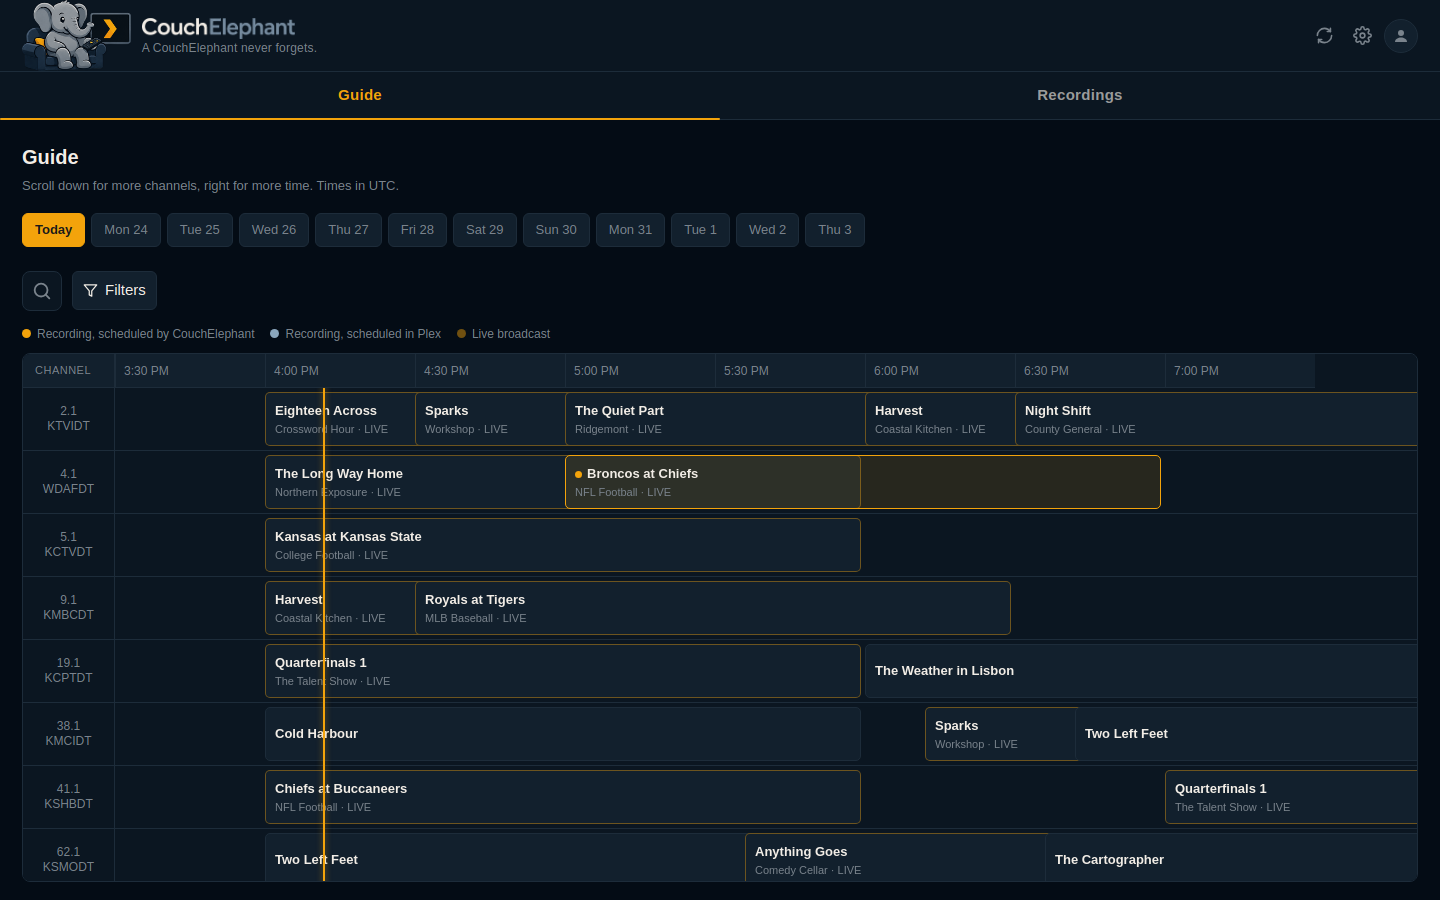
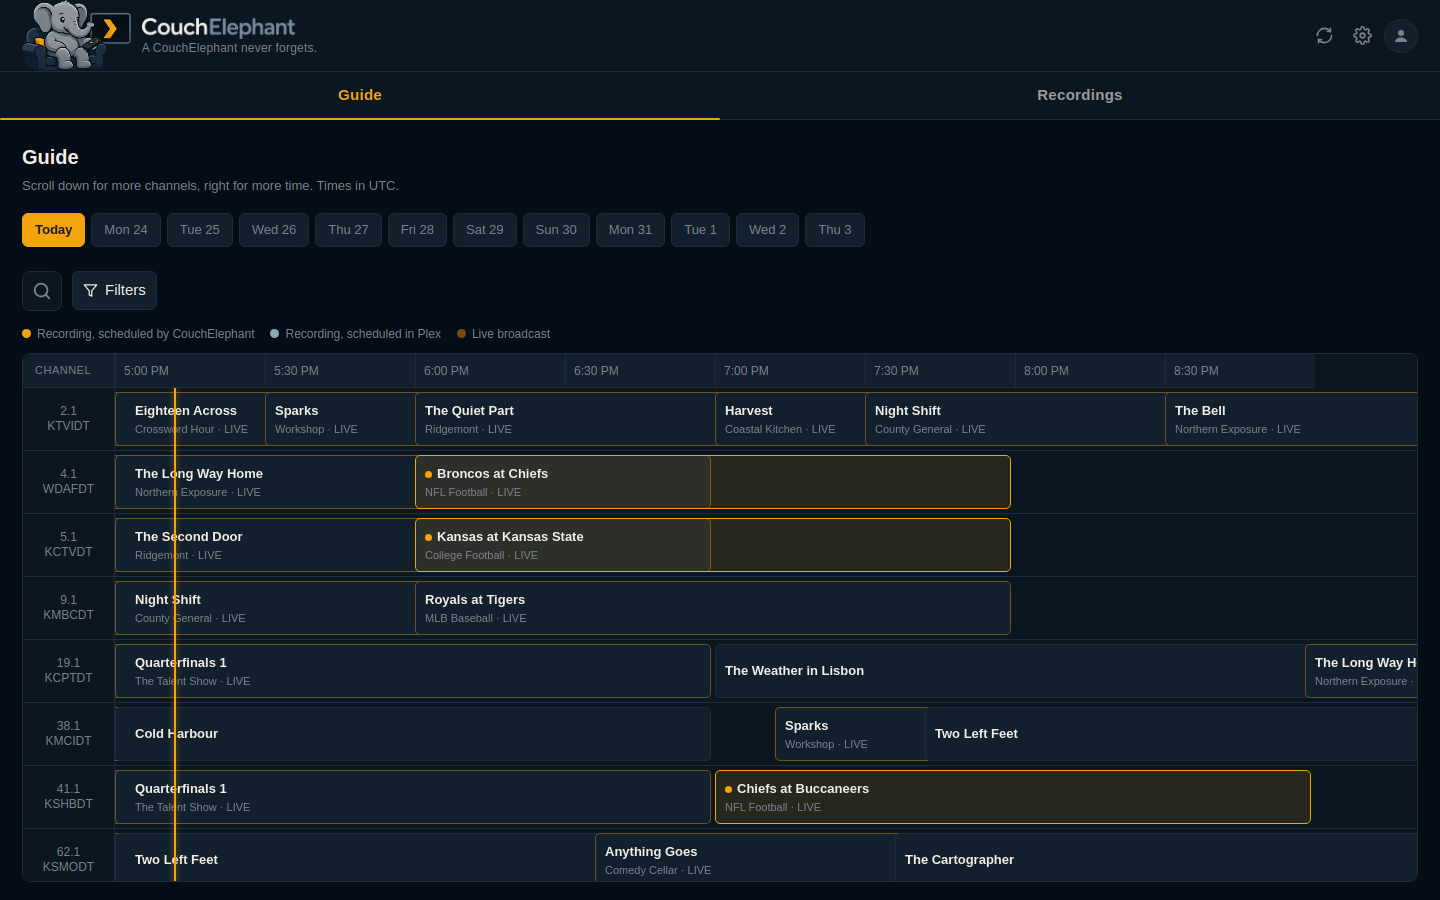
Screenshots: live game booked, full first column, no tab sparkle; UTC in the zone list; export label names every secret
Claude-Session: https://claude.ai/code/session_01XM6MJb5PzRb7XSwa3SEwsD

diff --git a/app/templates/_settings.html b/app/templates/_settings.html
@@ -273,8 +273,9 @@
           <p class="dim">The guide is not in it. Programmes and airings rebuild from
             your Plex server in seconds, so a stale copy would be bigger and wrong.</p>
           <label class="chk"><input type="checkbox" id="expsecrets">
-            <span>Include the Plex token</span></label>
-          <div class="help">Off by default. It is a credential, and an export is a
+            <span>Include secrets</span></label>
+          <div class="help">The Plex token, the Cloudflare AUD and the backing-store
+            passwords. Off by default: they are credentials, and an export is a
             file that ends up in an email.</div>
           <div class="row" style="margin-top:12px">
             <button type="button" class="primary" id="expgo">Download export</button>

diff --git a/tests/demo_guide.py b/tests/demo_guide.py
@@ -76,9 +76,13 @@ def _rk(guid):
 # Which programmes each channel runs, in order, on a loop. Sport goes to the
 # network affiliates, films to the independents, so the grid reads like a
 # lineup rather than like a shuffled list.
+# The network affiliates open with a show, so their first game starts at the
+# anchor and is still ahead. A game that began an hour ago is past the
+# scheduling window, and a pass quite rightly books its repeat instead, which
+# photographs like the app getting its one job backwards.
 LINEUP = {
-    "41.1": ("sport", "show"),
-    "5.1": ("sport", "show"),
+    "41.1": ("show", "sport"),
+    "5.1": ("show", "sport"),
     "9.1": ("show", "sport"),
     "4.1": ("show", "sport"),
     "2.1": ("show",),
@@ -100,9 +104,20 @@ def build(anchor, media):
 
     sports, shows, movies, team_tags = [], [], [], []
     names = dict(TEAMS)
-    counters = {"sport": 0, "show": 0, "movie": 0}
+    counters = {"sport": 0, "show": 0, "movie": 0, "news": 0}
 
     for vcn, rotation in LINEUP.items():
+        # The grid opens half an hour before now. A half-hour news slot on
+        # every channel fills that first column instead of leaving it blank.
+        n = counters["news"]
+        counters["news"] += 1
+        shows.append({
+            "guid": _key("news", n), "ratingKey": _rk(_key("news", n)),
+            "type": "episode", "title": "Evening News", "grandparentTitle": "Local News",
+            "summary": "The day's news.", "year": 2026, "contentRating": "TV-G",
+            "duration": 30 * 60_000, "Genre": [{"tag": "News"}],
+            "Media": [media(vcn, start_of_day - 1800, premiere=True, res="1080")],
+        })
         clock = start_of_day
         turn = 0
         while clock < end_of_day:

diff --git a/tests/ui/test_settings.py b/tests/ui/test_settings.py
@@ -65,10 +65,15 @@ def test_switching_sub_tab_switches_the_pane(settings):
 
 
 def test_the_search_reaches_across_every_section(settings):
-    settings.fill("#setq", "cloudflare")
+    settings.fill("#setq", "team domain")
     visible = settings.eval_on_selector_all(
         "#setnav .nav-item:not([hidden])", "els => els.map(e => e.dataset.sec)")
     assert visible == ["accounts"]
+    # A word that lives in two sections lights both.
+    settings.fill("#setq", "cloudflare")
+    visible = settings.eval_on_selector_all(
+        "#setnav .nav-item:not([hidden])", "els => els.map(e => e.dataset.sec)")
+    assert visible == ["accounts", "data"]
 
     settings.fill("#setq", "zzzznothing")
     assert settings.locator("#setnone").is_visible()

diff --git a/app/routes/_shared.py b/app/routes/_shared.py
@@ -41,7 +41,9 @@ ASSET_V = _asset_version()
 
 # Walking the tzdata directory on every settings render costs more than the
 # list is worth. It cannot change while the process runs.
-ZONES = sorted(z for z in zoneinfo.available_timezones() if "/" in z)
+# UTC first: it is the default, and a select whose default is not in its list
+# quietly shows the first entry instead (Africa/Abidjan, once, in a screenshot).
+ZONES = ["UTC"] + sorted(z for z in zoneinfo.available_timezones() if "/" in z)
 
 
 

diff --git a/scripts/screenshots.py b/scripts/screenshots.py
@@ -188,6 +188,9 @@ def main():
         # ---- settings ----
         page.goto("/settings")
         page.wait_for_selector("#setnav .nav-item", timeout=20000)
+        # The tab underline sparkles for 700ms after a change of tab. A shot
+        # inside that window shows dots over "Guide".
+        page.wait_for_timeout(900)
         shot(page, "settings-plex")
         page.click('.nav-item[data-sec="accounts"]')
         page.wait_for_timeout(300)

diff --git a/tests/ui/test_first_run.py b/tests/ui/test_first_run.py
@@ -121,3 +121,8 @@ def test_a_signed_in_theme_follows_the_account_not_the_browser(page, browser, ba
     assert other.eval_on_selector(
         "html", "el => el.getAttribute('data-theme-from')") == "account"
     ctx.close()
+
+
+def test_the_timezone_picker_starts_on_utc(fresh):
+    """The default must be in the list, or the browser shows the first entry."""
+    assert fresh.locator("#wz").input_value() == "UTC"

diff --git a/tests/ui/test_data.py b/tests/ui/test_data.py
@@ -37,7 +37,7 @@ def test_the_section_has_the_three_ways_out(data):
 def test_the_export_panel_says_what_is_left_out(data):
     text = data.locator('section[data-tab="export"]').inner_text()
     assert "guide is not in it" in text
-    assert "Include the Plex token" in text
+    assert "Include secrets" in text
     assert not data.locator("#expsecrets").is_checked(), "the token is opt in"
 
 

diff --git a/README.md b/README.md
@@ -172,7 +172,7 @@ Full instructions are in [docs/INSTALL.md](docs/INSTALL.md).
 ./scripts/test.sh
 ```
 
-392 checks: the airing choice, the pin, the smart filter compiler, the
+393 checks: the airing choice, the pin, the smart filter compiler, the
 three-way merge behind the backing store, the Plex client against a fake server
 that reproduces the real one's quirks, every endpoint, and a browser suite that
 drives the guide, the record panel, the recordings page, the smart filter

diff --git a/CHANGELOG.md b/CHANGELOG.md
@@ -21,6 +21,10 @@
   an error message or a log line.
 - `%` and `_` in a search or a smart-filter value are literal, not wildcards.
 - A search with `&` or `#` in it survives the redirect.
+- The first-run timezone picker starts on UTC. UTC was the default but not in
+  the list, so the browser showed the first entry, Africa/Abidjan.
+- The export checkbox says "Include secrets" and names them; it covered more
+  than the Plex token and the label had not kept up.
 
 ### Changed
 
